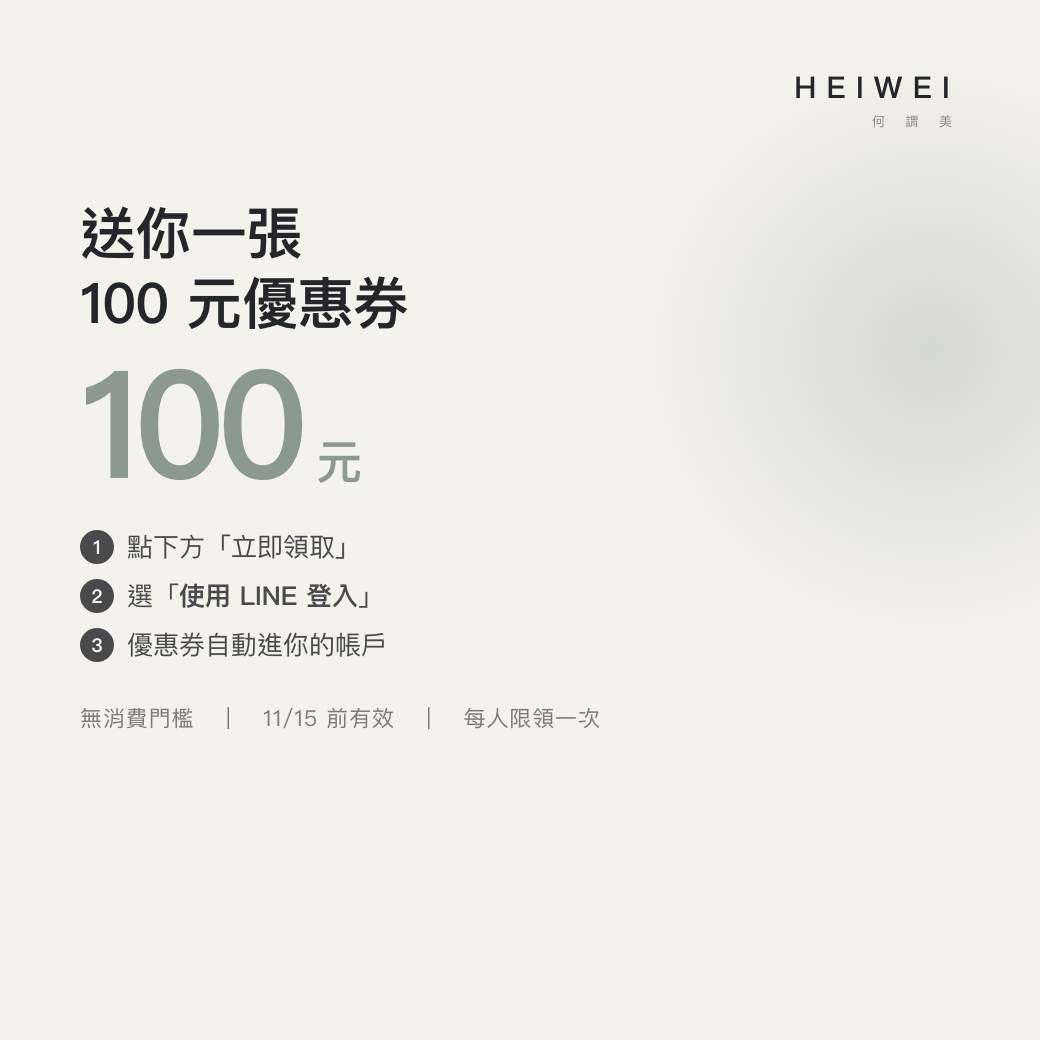
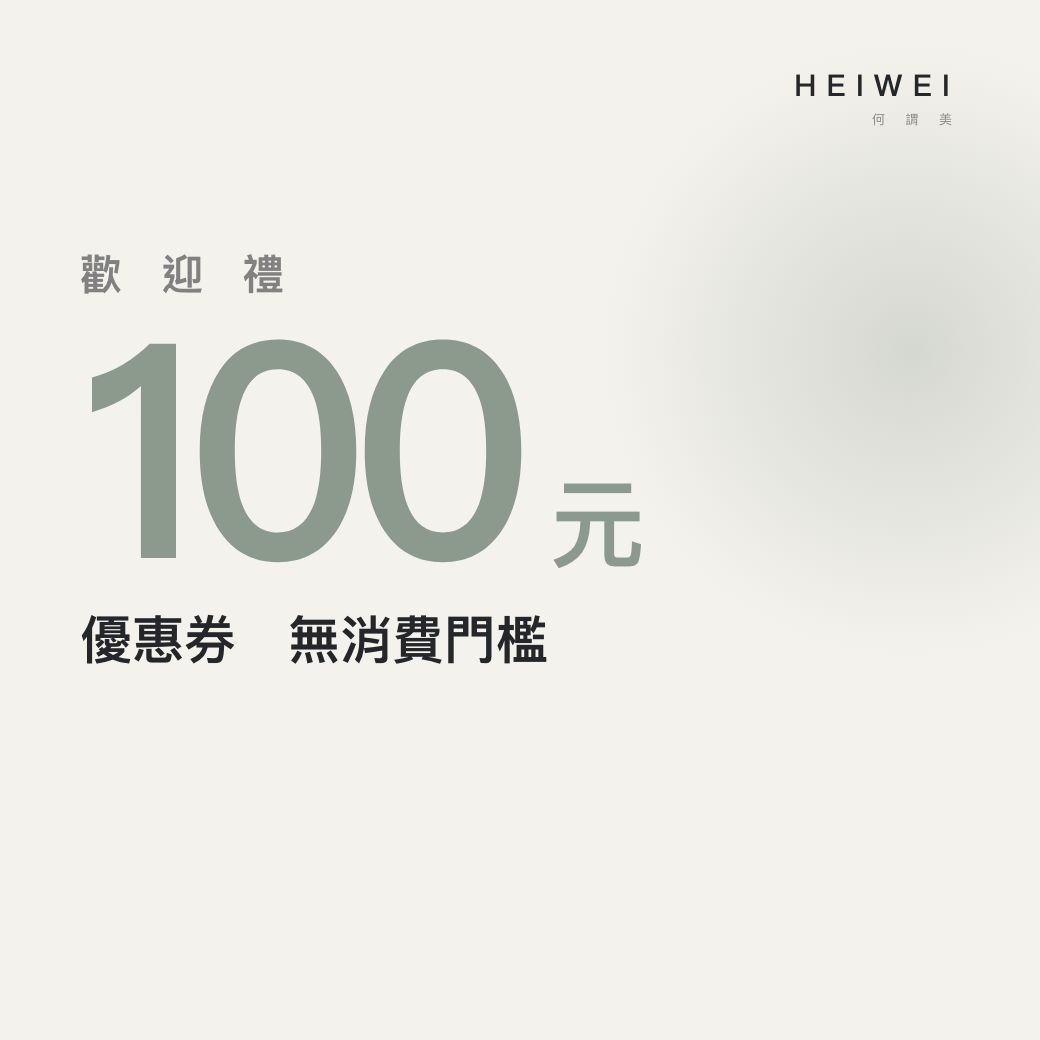
fix(cards): 多頁訊息圖改為單一大訊息，解決縮小後糊掉
多頁訊息是輪播卡片，每張僅約 240pt 寬（要露出下一張），圖會被大幅
縮小顯示。先前圖內放了三行步驟與使用條件，縮到那個尺寸必然糊成一團。

這不是解析度問題，縮檔案（如改 800×800）只會更糊。解法是減少圖內
文字、放大字級：圖只留「歡迎禮／100 元／無消費門檻」一個訊息，
三步驟與期限改放 LINE 卡片自己的文字欄位。

維持 1040×1040（1:1，上傳介面標示的比例），上下安全區不變。

Claude-Session: https://claude.ai/code/session_0139KhdQSS6gtY7sKbVk6GZj

diff --git a/heiwei-line-cards/_welcome_card.html b/heiwei-line-cards/_welcome_card.html
@@ -4,36 +4,28 @@
 body{width:1040px;height:1040px;overflow:hidden;
   font-family:"PingFang TC","Noto Sans TC","Helvetica Neue",sans-serif;
   -webkit-font-smoothing:antialiased}
-/* ⚠ LINE 卡片訊息會在圖上疊自己的標題（左上）與按鈕（下方置中）。
-   上緣 18%、下緣 28% 必須淨空，否則會被蓋住。 */
+/* 多頁訊息＝輪播卡片，每張僅約 240pt 寬，圖會被大幅縮小。
+   ⚠ 圖裡只放「一個大訊息」，細項文字請放在 LINE 卡片的文字欄位，
+      放進圖裡一定會糊。
+   ⚠ 上緣 190px、下緣 310px 淨空，避開 LINE 疊的標題與按鈕。 */
 .card{width:1040px;height:1040px;position:relative;background:#F4F2ED;color:#25262A;
-  padding:195px 80px 300px;display:flex;flex-direction:column;justify-content:center}
-.card::after{content:"";position:absolute;right:-200px;top:40px;width:620px;height:620px;
+  padding:190px 80px 310px;display:flex;flex-direction:column;justify-content:center}
+.card::after{content:"";position:absolute;right:-190px;top:30px;width:640px;height:640px;
   border-radius:50%;background:radial-gradient(circle,rgba(140,154,142,.30),transparent 68%)}
 .in{position:relative;z-index:2}
-.headline{font-size:56px;font-weight:700;line-height:1.26;letter-spacing:-.01em}
-.big{font-size:150px;font-weight:700;line-height:.95;letter-spacing:-.045em;color:#8C9A8E;margin:14px 0 0}
-.big small{font-size:46px;font-weight:700;letter-spacing:0}
-.steps{font-size:26px;line-height:1.9;opacity:.82;margin-top:26px}
-.steps b{font-weight:700}
-.num{display:inline-block;width:34px;height:34px;line-height:34px;text-align:center;
-  background:#25262A;color:#F7F6F3;border-radius:50%;font-size:19px;font-weight:700;
-  margin-right:13px;vertical-align:2px}
-.foot{font-size:22px;letter-spacing:.04em;opacity:.58;line-height:1.7;margin-top:30px}
-/* logo 放右上：LINE 的標題只佔左半邊（約 5%–46% 寬），右側安全 */
-.mark{position:absolute;top:72px;right:80px;text-align:right;z-index:2}
+.eyebrow{font-size:42px;font-weight:700;letter-spacing:.3em;opacity:.55;margin-bottom:18px}
+.big{font-size:300px;font-weight:700;line-height:.86;letter-spacing:-.05em;color:#8C9A8E}
+.big small{font-size:96px;font-weight:700;letter-spacing:0}
+.sub{font-size:52px;font-weight:700;line-height:1.35;margin-top:26px}
+.mark{position:absolute;top:70px;right:80px;text-align:right;z-index:2}
 .mark .w{font-size:30px;font-weight:700;letter-spacing:.34em;line-height:1}
-.mark .sub{font-size:13px;font-weight:400;letter-spacing:.62em;opacity:.5;margin-top:10px}
+.mark .sub2{font-size:13px;font-weight:400;letter-spacing:.62em;opacity:.5;margin-top:10px}
 </style>
 <div class=card>
-<div class=mark><div class=w>HEIWEI</div><div class=sub>何 謂 美</div></div>
-<div class=in>
-  <div class=headline>送你一張<br>100 元優惠券</div>
-  <div class=big>100<small> 元</small></div>
-  <div class=steps>
-    <span class=num>1</span>點下方「立即領取」<br>
-    <span class=num>2</span>選「<b>使用 LINE 登入</b>」<br>
-    <span class=num>3</span>優惠券自動進你的帳戶
+  <div class=mark><div class=w>HEIWEI</div><div class=sub2>何 謂 美</div></div>
+  <div class=in>
+    <div class=eyebrow>歡 迎 禮</div>
+    <div class=big>100<small> 元</small></div>
+    <div class=sub>優惠券　無消費門檻</div>
   </div>
-  <div class=foot>無消費門檻　｜　11/15 前有效　｜　每人限領一次</div>
-</div></div>
+</div>
